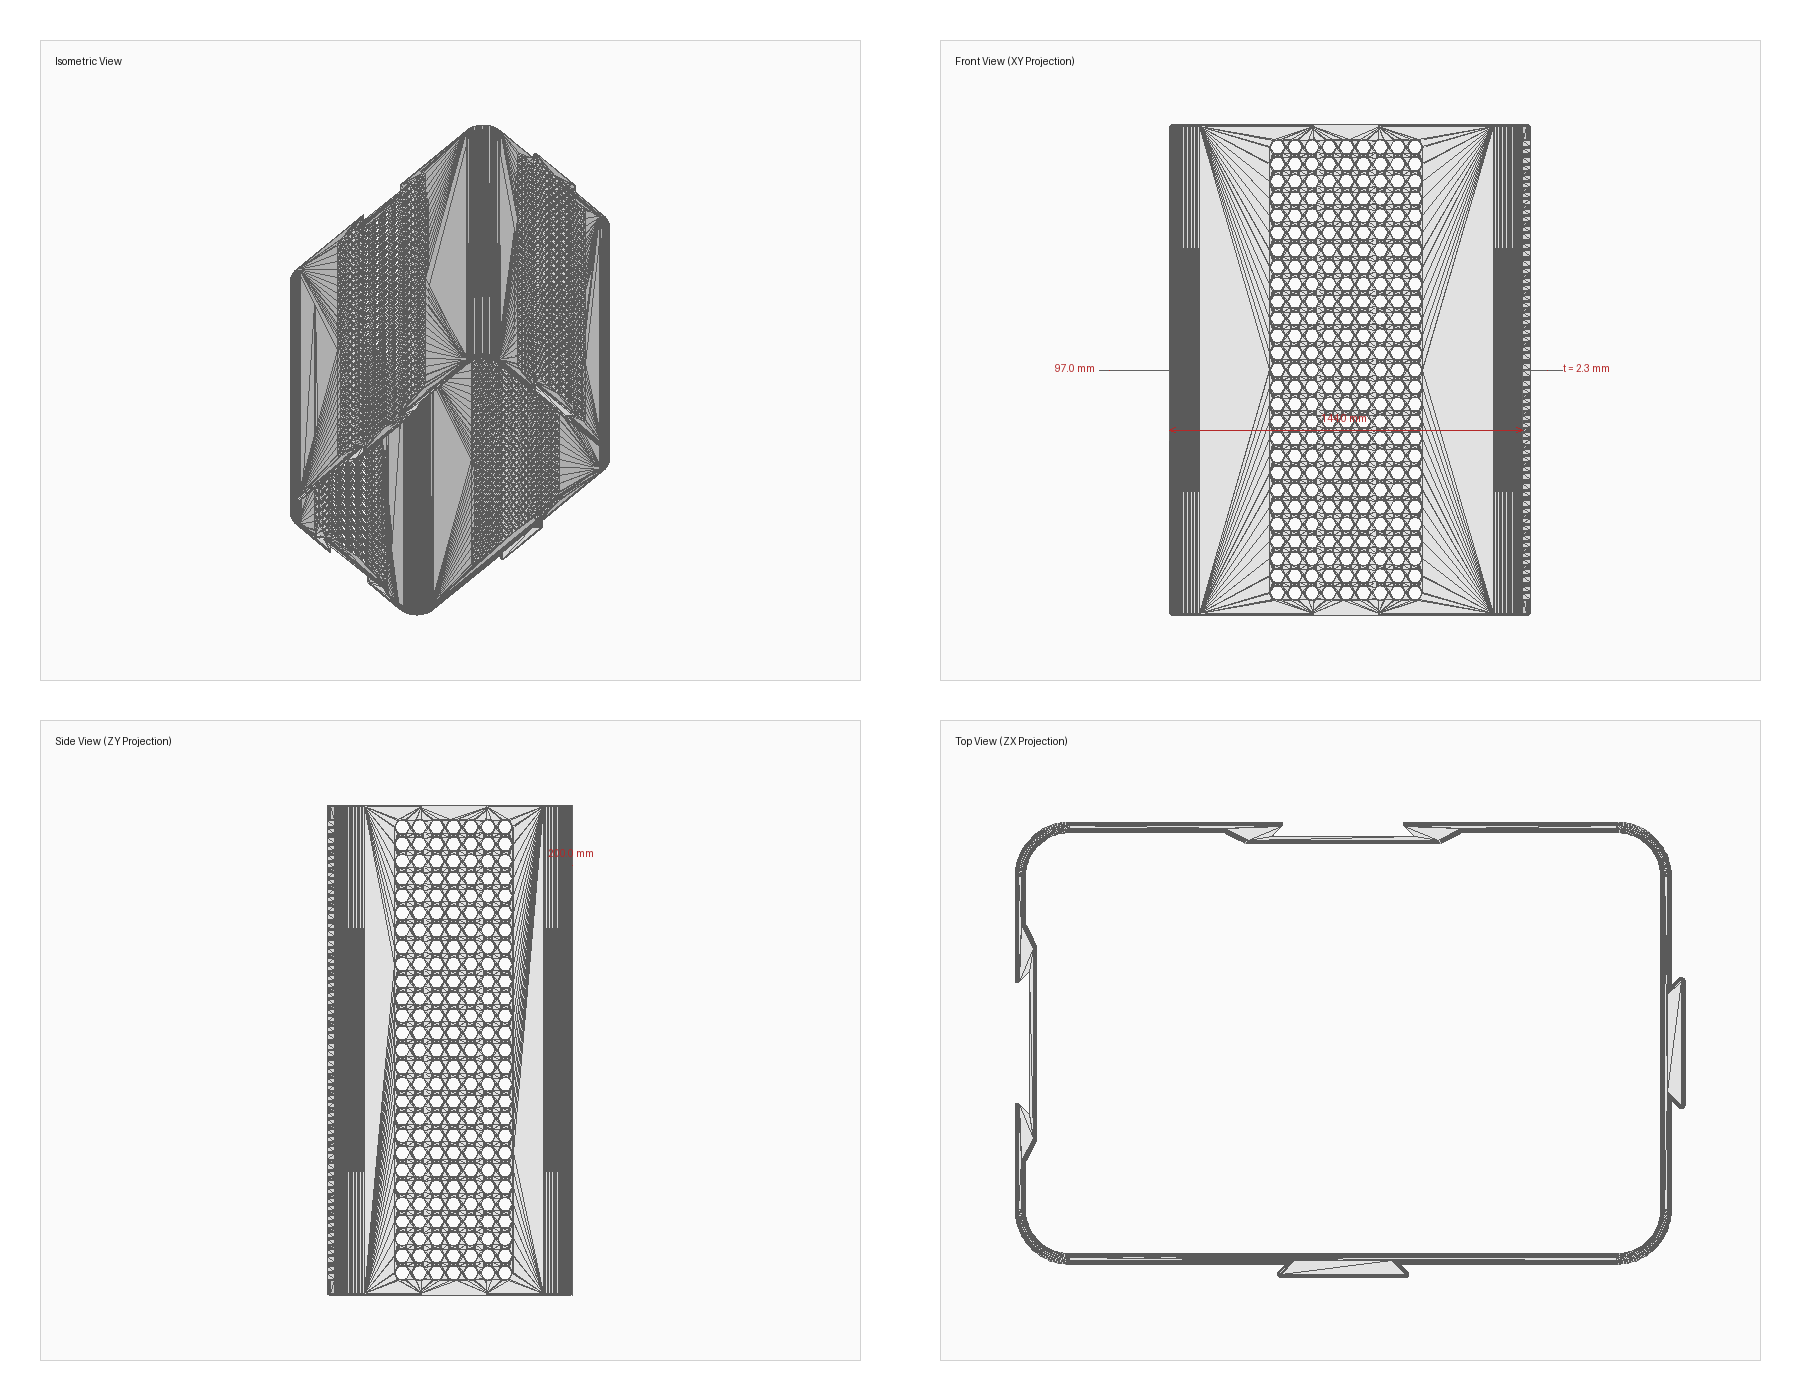
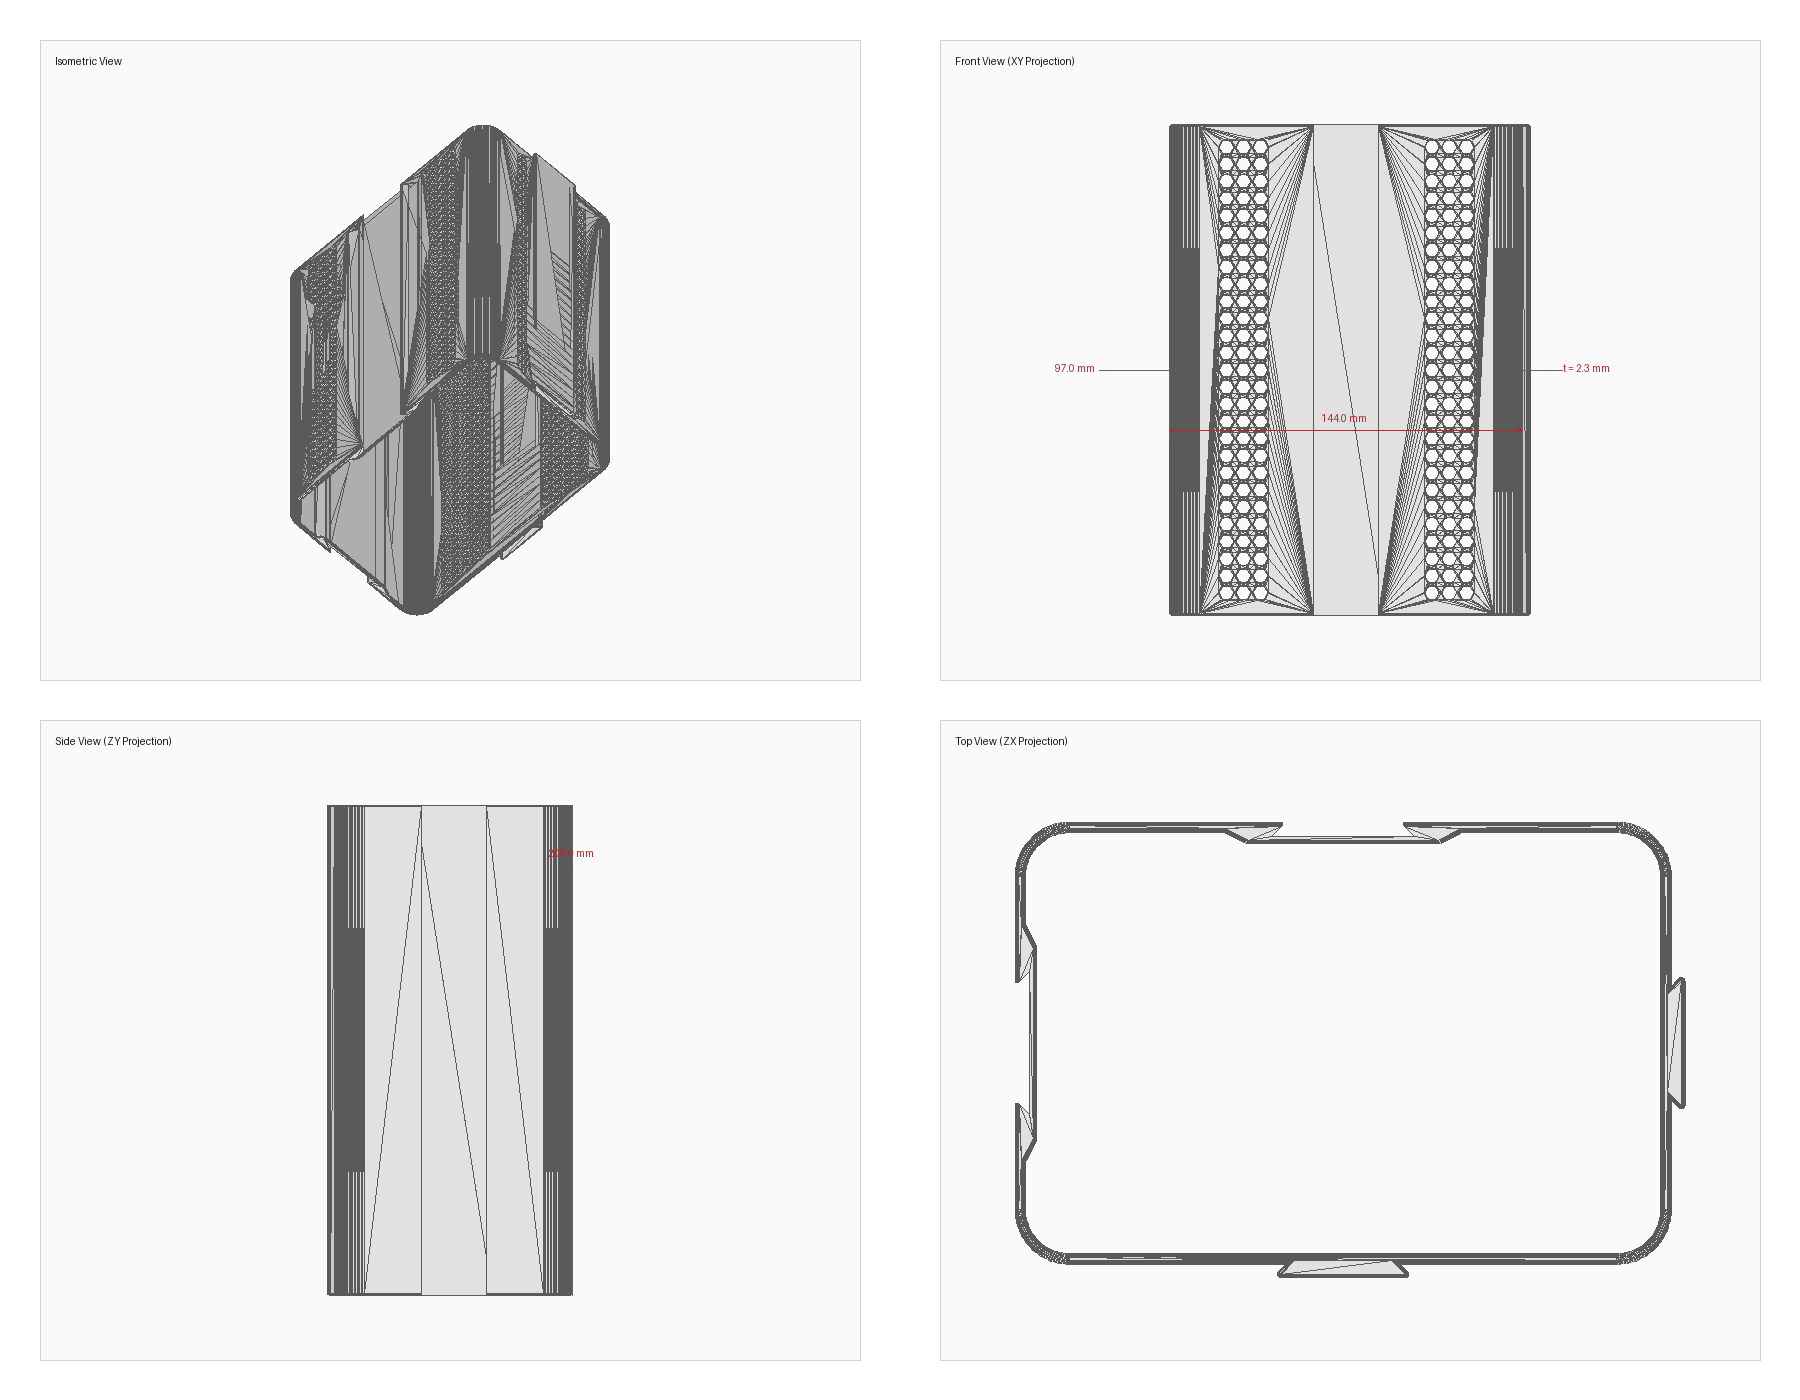
honeycomb: исправлена перфорация увеличенной ячейки — отверстия полностью удалены с граней стыковки (паз-гребень)
- Полностью убраны отверстия из зон замков (groove/ridge) и зон внутренних наклонных переходов ребер жесткости (reinforcement pads)
- Возвращена/увеличена перфорация на действительно плоских участках боковых и горизонтальных граней (всего 486 отверстий)
- Все отверстия математически проверены на пересечения с филлетами и наклонами (проверка завершилась со статусом [SUCCESS])
- Обновлены файлы STEP, чертежи dimensioned.png и сборка Cabinet_large.FCStd

Changed region(s): [[0.6533, 0.0921, 0.84, 0.43], [0.1556, 0.0921, 0.3422, 0.43], [0.1867, 0.5836, 0.3111, 0.9214]]

diff --git a/Шкафчик Никиты (Сказка м.г.)/Увеличенная_ячейка/config.py b/Шкафчик Никиты (Сказка м.г.)/Увеличенная_ячейка/config.py
@@ -51,13 +51,13 @@ class HoneycombConfig:
 
     # Perforation column U-coordinates for each of the 4 faces (dense grid spacing 7.0 mm):
     # Face 0 (Right side - Male joint):
-    perforation_cols_face_0: tuple[float, ...] = (-21.0, -14.0, -7.0, 0.0, 7.0, 14.0, 21.0)
+    perforation_cols_face_0: tuple[float, ...] = (-21.0, 21.0)
     # Face 1 (Top side - Female joint):
-    perforation_cols_face_1: tuple[float, ...] = (-28.0, -21.0, -14.0, -7.0, 0.0, 7.0, 14.0, 21.0, 28.0)
+    perforation_cols_face_1: tuple[float, ...] = (-49.0, -42.0, -35.0, 35.0, 42.0, 49.0)
     # Face 2 (Left side - Female joint):
-    perforation_cols_face_2: tuple[float, ...] = (-21.0, -14.0, -7.0, 0.0, 7.0, 14.0, 21.0)
+    perforation_cols_face_2: tuple[float, ...] = ()
     # Face 3 (Bottom side - Male joint):
-    perforation_cols_face_3: tuple[float, ...] = (-28.0, -21.0, -14.0, -7.0, 0.0, 7.0, 14.0, 21.0, 28.0)
+    perforation_cols_face_3: tuple[float, ...] = (-49.0, -42.0, -35.0, -28.0, -21.0, 21.0, 28.0, 35.0, 42.0, 49.0)
 
     # Safety.
     end_fillet_r: float = 0.8

diff --git a/Шкафчик Никиты (Сказка м.г.)/Увеличенная_ячейка/builder.py b/Шкафчик Никиты (Сказка м.г.)/Увеличенная_ячейка/builder.py
@@ -310,7 +310,7 @@ def _build_perforation_cutters(
         if face_index in (0, 2):
             flat_face_half_length = config.r_out - config.corner_radius
         else:
-            flat_face_half_length = config.b_out
+            flat_face_half_length = config.a_out - config.corner_radius
         max_u_center = flat_face_half_length - config.perforation_edge_min - (config.perforation_radius + config.perforation_chamfer)
 
         for row in range(config.perforation_rows):